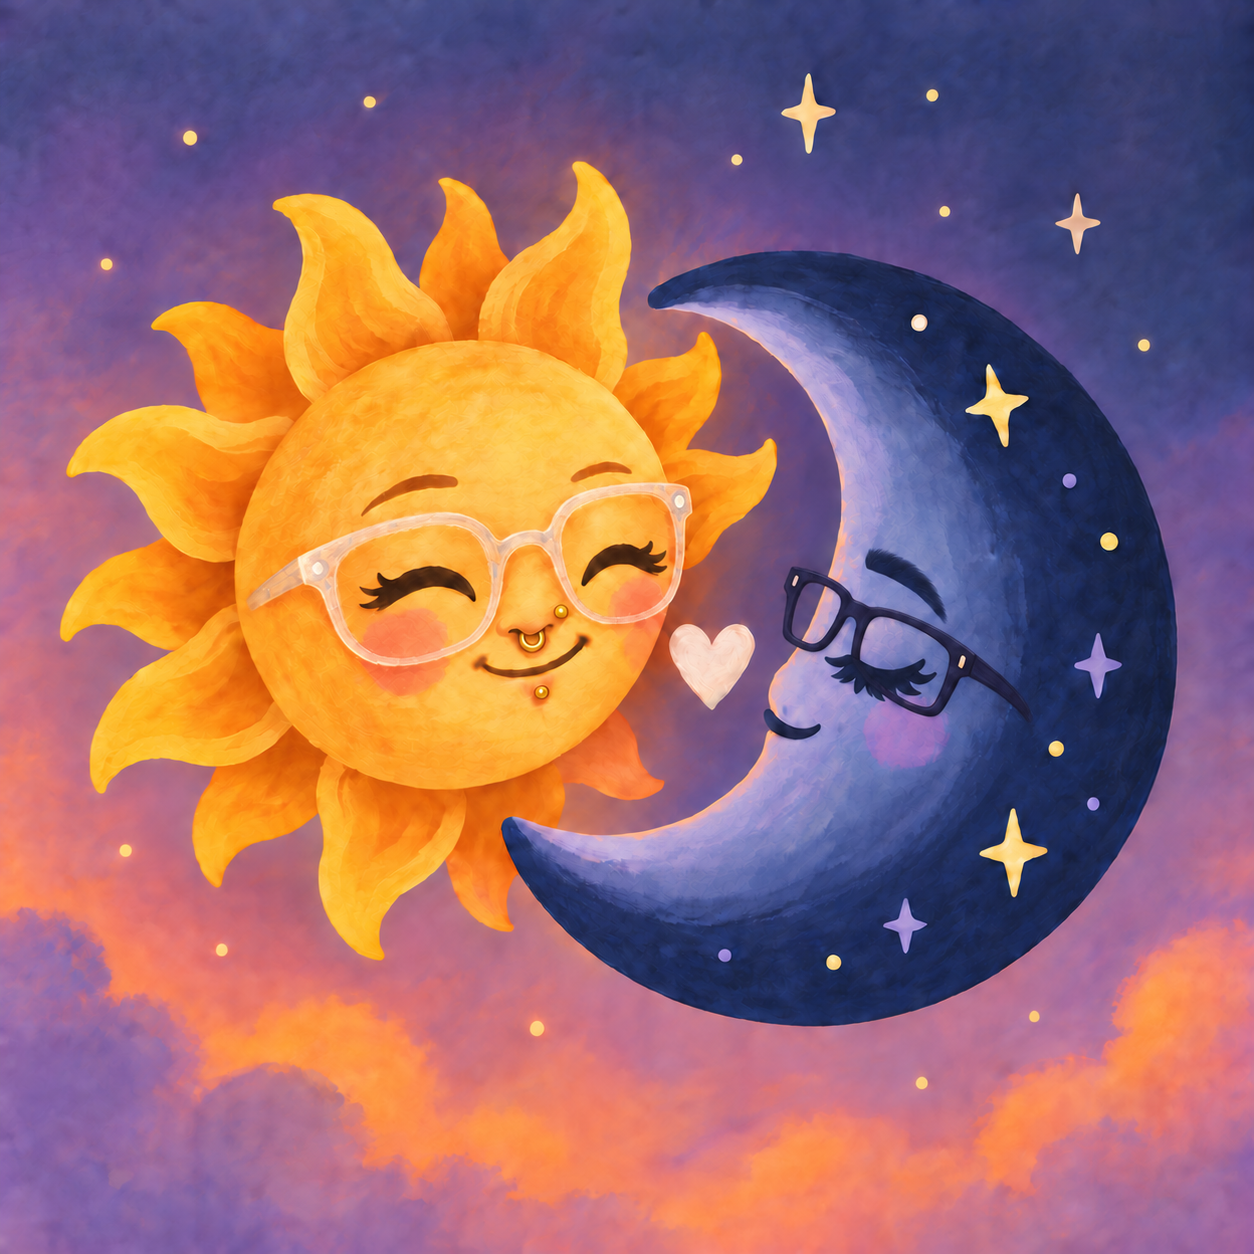
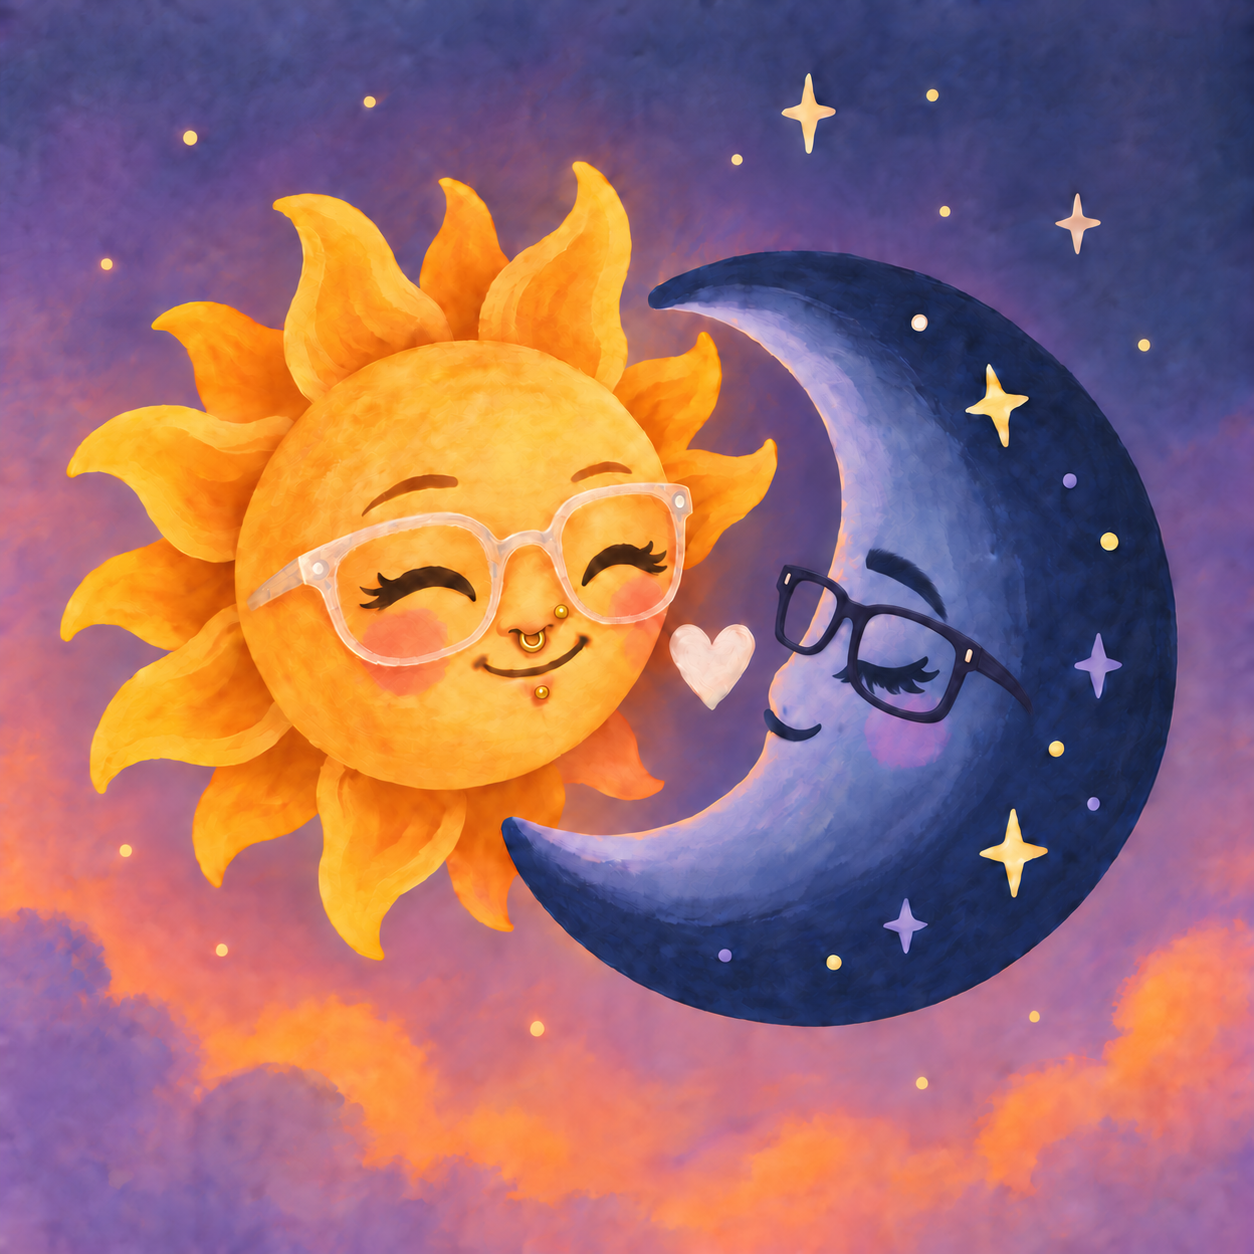
Add character portraits and polish the interface

Changed region(s): [[0.622, 0.4354, 0.8086, 0.5909], [0.622, 0.5598, 0.6531, 0.5909]]

diff --git a/styles.css b/styles.css
@@ -8,11 +8,13 @@
 }
 
 * { box-sizing: border-box; }
-html { min-height: 100%; }
-body { margin: 0; min-height: 100vh; color: var(--ink); }
+html { min-height: 100%; scroll-behavior:smooth; }
+body { margin: 0; min-height: 100vh; min-height:100dvh; color: var(--ink); overflow-wrap:anywhere; }
 a { color: inherit; }
-button, input, select { font: inherit; }
+button, input, select, textarea { font: inherit; }
 button, a { -webkit-tap-highlight-color: transparent; }
+button { touch-action:manipulation; }
+button:focus-visible,a:focus-visible,input:focus-visible,select:focus-visible,textarea:focus-visible { outline:3px solid color-mix(in srgb,var(--accent,#73506a) 55%,white); outline-offset:3px; }
 
 .landing {
   background:
@@ -25,7 +27,7 @@ button, a { -webkit-tap-highlight-color: transparent; }
   overflow-x: hidden;
 }
 
-.landing-shell { width: min(1080px, calc(100% - 32px)); padding: 64px 0 38px; position: relative; z-index: 2; }
+.landing-shell { width: min(1080px, calc(100% - 32px)); padding:max(42px,env(safe-area-inset-top)) 0 max(30px,env(safe-area-inset-bottom)); position: relative; z-index: 2; }
 .landing-copy { max-width: 700px; margin: 0 auto 38px; text-align: center; }
 .tiny-kicker { margin: 0 0 7px; font-size: .76rem; text-transform: uppercase; letter-spacing: .13em; font-weight: 850; opacity: .75; }
 .landing-copy h1 { margin: 0; font-size: clamp(2.7rem, 8vw, 5.7rem); line-height: .91; letter-spacing: -.065em; color: #523446; }
@@ -33,7 +35,7 @@ button, a { -webkit-tap-highlight-color: transparent; }
 
 .door-grid { display: grid; grid-template-columns: 1fr 1fr; gap: 22px; }
 .person-door {
-  min-height: 355px; padding: 34px; border-radius: 38px; text-decoration: none;
+  min-height: 355px; padding: 30px 34px 34px; border-radius: 38px; text-decoration: none;
   display: flex; flex-direction: column; justify-content: flex-end; position: relative; overflow: hidden;
   box-shadow: 0 22px 55px rgba(78,52,66,.15); transition: transform .22s ease, box-shadow .22s ease;
 }
@@ -42,7 +44,7 @@ button, a { -webkit-tap-highlight-color: transparent; }
 .her-door::before { content:"♡"; position:absolute; right:-10px; top:-85px; font-size:18rem; color:rgba(255,255,255,.24); transform:rotate(12deg); }
 .him-door { background: linear-gradient(145deg,#203d59,#12293f 68%,#0d2134); color:#eef7ff; }
 .him-door::before { content:"✦"; position:absolute; right:22px; top:-35px; font-size:15rem; color:rgba(156,209,215,.12); }
-.door-sparkle { position:absolute; top:30px; left:34px; font-size:2.2rem; }
+.door-sparkle { font-size:2.2rem; }
 .door-small { font-size:.75rem; text-transform:uppercase; letter-spacing:.13em; font-weight:850; opacity:.72; }
 .person-door strong { font-size:clamp(3.3rem,8vw,5.8rem); line-height:.9; letter-spacing:-.06em; margin:8px 0 16px; }
 .door-note { max-width:330px; line-height:1.45; opacity:.82; }
@@ -68,12 +70,12 @@ button, a { -webkit-tap-highlight-color: transparent; }
   --page-text:#213f52; --page-muted:#667f8d;
   background:radial-gradient(circle at 90% 0,#cde0e5 0,transparent 28rem),radial-gradient(circle at 0 45%,#e6efe7 0,transparent 25rem),#f8fbf8;
 }
-.app-topbar { max-width:880px; margin:0 auto; padding:24px 20px; display:flex; justify-content:space-between; gap:16px; }
+.app-topbar { max-width:920px; margin:0 auto 8px; padding:max(18px,env(safe-area-inset-top)) 20px 14px; display:flex; justify-content:space-between; gap:16px; align-items:center; position:sticky; top:0; z-index:15; background:linear-gradient(180deg,color-mix(in srgb,var(--paper) 88%,transparent),color-mix(in srgb,var(--paper) 64%,transparent) 76%,transparent); backdrop-filter:blur(14px); }
 .app-topbar a { font-size:.86rem; font-weight:800; text-decoration:none; color:var(--accent-deep); }
 .topbar-right { display:flex; gap:12px; align-items:center; }
-.sign-out { border:0; background:transparent; color:var(--page-muted); font-size:.77rem; font-weight:800; cursor:pointer; padding:0; }
+.sign-out { border:0; background:transparent; color:var(--page-muted); font-size:.77rem; font-weight:800; cursor:pointer; padding:8px 4px; }
 .app-shell { width:min(840px,calc(100% - 28px)); margin:0 auto; }
-.hello-card { display:flex; justify-content:space-between; align-items:center; gap:20px; background:var(--paper); border:1px solid rgba(255,255,255,.92); border-radius:34px; padding:34px; box-shadow:0 18px 50px rgba(82,56,68,.1); }
+.hello-card { display:flex; justify-content:space-between; align-items:center; gap:24px; background:var(--paper); border:1px solid rgba(255,255,255,.92); border-radius:34px; padding:34px; box-shadow:0 18px 50px rgba(82,56,68,.1); }
 .hello-card h1 { margin:0; font-size:clamp(2.7rem,8vw,4.7rem); line-height:.95; letter-spacing:-.055em; color:var(--page-text); }
 .hello-note { max-width:500px; margin:14px 0 0; color:var(--page-muted); line-height:1.5; }
 .mood-sticker { flex:0 0 auto; width:92px; height:92px; display:grid; place-items:center; font-size:2.7rem; border-radius:34px 28px 38px 25px; background:var(--accent-pale); box-shadow:0 10px 25px rgba(75,55,65,.1); transform:rotate(5deg); }
@@ -91,9 +93,11 @@ button, a { -webkit-tap-highlight-color: transparent; }
 .quick-form label,.grocery-composer label { display:block; }
 .quick-form label > span,.grocery-composer label > span { display:block; margin:0 0 7px 3px; font-size:.82rem; font-weight:800; color:var(--page-muted); }
 .wide-field { grid-column:1/-1; }
-input,select { width:100%; min-height:48px; border:2px solid color-mix(in srgb,var(--accent-soft) 70%,white); background:rgba(255,255,255,.82); color:var(--page-text); border-radius:15px; padding:11px 13px; outline:none; }
+input,select { width:100%; min-height:50px; border:2px solid color-mix(in srgb,var(--accent-soft) 70%,white); background:rgba(255,255,255,.82); color:var(--page-text); border-radius:15px; padding:11px 13px; outline:none; font-size:16px; }
 input:focus,select:focus { border-color:var(--accent); box-shadow:0 0 0 4px color-mix(in srgb,var(--accent) 14%,transparent); }
-.primary-action { grid-column:1/-1; min-height:50px; border:0; border-radius:999px; background:linear-gradient(135deg,var(--accent),var(--accent-deep)); color:white; font-weight:850; cursor:pointer; box-shadow:0 10px 24px color-mix(in srgb,var(--accent) 27%,transparent); }
+.primary-action { grid-column:1/-1; min-height:52px; border:0; border-radius:999px; background:linear-gradient(135deg,var(--accent),var(--accent-deep)); color:white; font-weight:850; cursor:pointer; box-shadow:0 10px 24px color-mix(in srgb,var(--accent) 27%,transparent); transition:transform .16s ease,filter .16s ease,box-shadow .16s ease; }
+.primary-action:hover { filter:saturate(1.06) brightness(1.03); transform:translateY(-1px); }
+.primary-action:active { transform:translateY(1px) scale(.995); }
 
 .count-bubble { background:var(--accent-pale); color:var(--accent-deep); padding:8px 12px; border-radius:999px; font-size:.78rem; font-weight:850; }
 .empty-state { text-align:center; padding:38px 15px 25px; color:var(--page-muted); }
@@ -133,7 +137,7 @@ input:focus,select:focus { border-color:var(--accent); box-shadow:0 0 0 4px colo
 .dashboard-shell { max-width:920px; }
 .dashboard-hello { margin-bottom:18px; }
 .tool-grid { display:grid; grid-template-columns:1fr 1fr; gap:16px; }
-.tool-card { min-height:255px; border-radius:30px; padding:25px; text-decoration:none; display:flex; flex-direction:column; align-items:flex-start; position:relative; overflow:hidden; box-shadow:0 14px 34px rgba(62,48,56,.1); transition:transform .18s ease,box-shadow .18s ease; }
+.tool-card { min-height:255px; border-radius:30px; padding:27px; text-decoration:none; display:flex; flex-direction:column; align-items:flex-start; position:relative; overflow:hidden; box-shadow:0 14px 34px rgba(62,48,56,.1); transition:transform .18s ease,box-shadow .18s ease; }
 .tool-card:hover { transform:translateY(-4px); box-shadow:0 21px 46px rgba(62,48,56,.14); }
 .tool-card:first-child { grid-row:span 2; min-height:526px; justify-content:flex-end; }
 .tool-card:first-child::after { content:'✓'; position:absolute; font-size:19rem; top:-75px; right:-15px; opacity:.08; font-weight:900; }
@@ -354,17 +358,73 @@ input:focus,select:focus { border-color:var(--accent); box-shadow:0 0 0 4px colo
 
 /* Their little sun & moon */
 .landing-pair { width:148px; aspect-ratio:1; object-fit:cover; border-radius:44px; box-shadow:0 18px 44px rgba(34,31,70,.22),0 0 0 4px rgba(255,255,255,.42); transform:rotate(-2deg); }
-.celestial-crop { position:relative; display:block; overflow:hidden; isolation:isolate; }
-.celestial-crop img { position:absolute; top:0; height:100%; width:200%; max-width:none; object-fit:cover; }
-.sun-crop img { left:0; object-position:left center; }
-.moon-crop img { right:0; object-position:right center; }
-.door-sparkle.celestial-crop { width:74px; height:74px; border-radius:24px; border:2px solid rgba(255,255,255,.65); box-shadow:0 9px 24px rgba(31,34,72,.18); }
-.mood-sticker.celestial-crop { padding:0; border:3px solid rgba(255,255,255,.62); }
-.proximity-orbit .celestial-crop { width:54px; height:54px; flex:0 0 54px; border-radius:19px; border:2px solid rgba(255,255,255,.72); box-shadow:0 8px 20px rgba(26,34,71,.18); }
-.couple-marker.her::after,.couple-marker.him::after { content:''; width:36px; height:36px; border-radius:13px; background-image:url('sun-moon-personalized.png'); background-repeat:no-repeat; background-size:200% 100%; }
-.couple-marker.her::after { background-position:left center; }
-.couple-marker.him::after { background-position:right center; }
-@media (max-width:620px) { .landing-pair { width:112px; border-radius:34px; } }
+.profile-mini,.profile-portrait,.profile-orbit { display:block; overflow:hidden; isolation:isolate; background:rgba(255,255,255,.38); }
+.profile-mini img,.profile-portrait img,.profile-orbit img { display:block; width:100%; height:100%; object-fit:cover; }
+.door-sparkle.profile-mini { position:relative; top:auto; left:auto; width:78px; height:78px; margin:0 0 auto; border-radius:25px; border:2px solid rgba(255,255,255,.72); box-shadow:0 10px 28px rgba(31,34,72,.2); transform:rotate(-3deg); transition:transform .22s ease; }
+.him-door .door-sparkle.profile-mini { transform:rotate(3deg); }
+.person-door:hover .profile-mini { transform:rotate(1deg) scale(1.04); }
+.him-door:hover .profile-mini { transform:rotate(-1deg) scale(1.04); }
+.mood-sticker.profile-portrait { padding:0; border:3px solid rgba(255,255,255,.68); }
+.profile-orbit { width:56px; height:56px; flex:0 0 56px; border-radius:19px; border:2px solid rgba(255,255,255,.76); box-shadow:0 8px 20px rgba(26,34,71,.18); }
+.couple-marker.her::after,.couple-marker.him::after { content:''; width:36px; height:36px; border-radius:13px; background-repeat:no-repeat; background-size:cover; background-position:center; }
+.couple-marker.her::after { background-image:url('sun-profile.png'); }
+.couple-marker.him::after { background-image:url('moon-profile.png'); }
+
+/* A calmer, friendlier finish across the whole little universe */
+.person-door,.tool-card,.composer-card,.list-card,.grocery-composer,.playful-maker,.note-maker,.note-preview,.proximity-card,.share-card,.map-card,.hello-card,.feature-hero { isolation:isolate; }
+.person-door > *,.tool-card > * { position:relative; z-index:1; }
+.tiny-button,.tab,.soft-chip,.choice,.duration-chip,.note-starters button,.inline-add button,.create-space,.stop-sharing,.hide-last-location,.install-corner button { min-height:44px; transition:transform .16s ease,filter .16s ease,background-color .16s ease; }
+.tiny-button:hover,.tab:hover,.soft-chip:hover,.choice:hover,.duration-chip:hover,.note-starters button:hover,.inline-add button:hover,.create-space:hover,.install-corner button:hover { filter:brightness(1.03) saturate(1.05); transform:translateY(-1px); }
+.tiny-button:active,.tab:active,.soft-chip:active,.choice:active,.duration-chip:active,.note-starters button:active,.inline-add button:active,.create-space:active,.install-corner button:active { transform:translateY(1px); }
+.tabs { scroll-snap-type:x proximity; mask-image:linear-gradient(90deg,transparent,#000 10px,#000 calc(100% - 18px),transparent); }
+.tab { scroll-snap-align:start; }
+.composer-card,.list-card,.grocery-composer,.playful-maker,.note-maker,.note-preview,.proximity-card,.share-card,.map-card { border:1px solid color-mix(in srgb,var(--accent-soft) 24%,rgba(255,255,255,.88)); }
+.task-row { transition:transform .16s ease,background-color .16s ease; }
+.task-row:hover { transform:translateX(2px); }
+.task-check,.delete-task { min-width:32px; min-height:32px; }
+.delete-task { border-radius:50%; }
+.delete-task:hover { background:color-mix(in srgb,var(--accent-pale) 74%,white); }
+.phone-popup { min-width:0; }
+.phone-popup div { min-width:0; }
+.phone-popup p { white-space:normal; }
+.map-heading,.share-heading,.composer-heading,.list-heading { min-width:0; }
+
+@media (max-width:720px) {
+  .landing-shell { width:min(100% - 24px,680px); padding-top:max(26px,env(safe-area-inset-top)); }
+  .landing-copy { margin-bottom:26px; }
+  .landing-copy h1 { font-size:clamp(2.6rem,13vw,4.2rem); }
+  .landing-copy>p:last-child { margin-top:15px; font-size:.98rem; }
+  .landing-pair { width:112px; border-radius:34px; }
+  .door-grid { gap:15px; }
+  .person-door { min-height:300px; padding:24px 25px 27px; border-radius:30px; }
+  .door-sparkle.profile-mini { width:68px; height:68px; border-radius:22px; }
+  .person-door strong { font-size:clamp(3.2rem,16vw,4.9rem); margin-bottom:13px; }
+  .door-note { max-width:290px; font-size:.94rem; }
+  .door-arrow { margin-top:17px; }
+  .app-shell { width:min(100% - 20px,840px); }
+  .app-topbar { padding-left:14px; padding-right:14px; }
+  .hello-card { border-radius:27px; }
+  .feature-hero { border-radius:27px; }
+  .composer-card,.list-card,.grocery-composer,.playful-maker,.note-maker,.note-preview,.proximity-card,.share-card,.map-card { border-radius:25px; }
+  .tabs { margin-left:-2px; margin-right:-2px; padding-bottom:15px; }
+  .tool-grid { gap:13px; }
+  .tool-card,.tool-card:first-child { padding:24px; border-radius:26px; }
+}
+
+@media (max-width:450px) {
+  .tiny-kicker { font-size:.7rem; }
+  .hello-card { gap:14px; }
+  .hello-card h1 { font-size:clamp(2.3rem,13vw,3.5rem); }
+  .hello-note { font-size:.92rem; }
+  .mood-sticker.profile-portrait { width:64px; height:64px; flex-basis:64px; }
+  .feature-icon { width:70px; height:70px; border-radius:24px; }
+  .feature-hero h1 { font-size:clamp(2.35rem,12vw,3.5rem); }
+  .feature-hero>p:last-child { font-size:.93rem; }
+  .maker-step { grid-template-columns:34px 1fr; gap:10px; }
+  .soft-chip,.choice,.duration-chip,.note-starters button { padding:10px 12px; }
+  .share-heading h2,.map-heading h2 { font-size:1.45rem; }
+  .map-legend { gap:12px; flex-wrap:wrap; }
+}
 
 @media (max-width:720px) {
   .landing { background:linear-gradient(165deg,#fff8da 0%,#f7c966 38%,#9b728f 64%,#18264c 100%); }

diff --git a/service-worker.js b/service-worker.js
@@ -1,5 +1,5 @@
-const CACHE = 'our-little-list-personalized-v7';
-const ASSETS = ['./','./index.html','./her.html','./him.html','./tasks.html','./reminders.html','./notes.html','./location.html','./styles.css','./shared.js','./tasks.js','./reminders.js','./notes.js','./location.js','./live-notes.js','./ui-helpers.js','./firebase-data.js','./firebase-config.js','./sun-moon-personalized.png','./manifest.webmanifest'];
+const CACHE = 'our-little-list-ui-v8';
+const ASSETS = ['./','./index.html','./her.html','./him.html','./tasks.html','./reminders.html','./notes.html','./location.html','./styles.css','./shared.js','./tasks.js','./reminders.js','./notes.js','./location.js','./live-notes.js','./ui-helpers.js','./firebase-data.js','./firebase-config.js','./sun-moon-personalized.png','./sun-profile.png','./moon-profile.png','./manifest.webmanifest'];
 
 self.addEventListener('install', event => event.waitUntil(caches.open(CACHE).then(cache => cache.addAll(ASSETS))));
 self.addEventListener('activate', event => event.waitUntil(caches.keys().then(keys => Promise.all(keys.filter(key => key !== CACHE).map(key => caches.delete(key))))));

diff --git a/index.html b/index.html
@@ -27,7 +27,7 @@
 
     <section class="door-grid" aria-label="Choose a page">
       <a class="person-door her-door" href="her.html">
-        <span class="door-sparkle celestial-crop sun-crop"><img src="sun-moon-personalized.png" alt=""></span>
+        <span class="door-sparkle profile-mini"><img src="sun-profile.png" alt=""></span>
         <span class="door-small">her warm little corner</span>
         <strong>For Her</strong>
         <span class="door-note">the sunshine side — soft reminders, sweet notes & little wins</span>
@@ -35,7 +35,7 @@
       </a>
 
       <a class="person-door him-door" href="him.html">
-        <span class="door-sparkle celestial-crop moon-crop"><img src="sun-moon-personalized.png" alt=""></span>
+        <span class="door-sparkle profile-mini"><img src="moon-profile.png" alt=""></span>
         <span class="door-small">his quiet little corner</span>
         <strong>For Him</strong>
         <span class="door-note">the moon side — plans, helpful nudges & things to remember</span>

diff --git a/location.html b/location.html
@@ -15,7 +15,7 @@
     </section>
 
     <section class="proximity-card" aria-live="polite">
-      <div class="proximity-orbit" aria-hidden="true"><span class="celestial-crop sun-crop"><img src="sun-moon-personalized.png" alt=""></span><i></i><span class="celestial-crop moon-crop"><img src="sun-moon-personalized.png" alt=""></span></div>
+      <div class="proximity-orbit" aria-hidden="true"><span class="profile-orbit"><img src="sun-profile.png" alt=""></span><i></i><span class="profile-orbit"><img src="moon-profile.png" alt=""></span></div>
       <p class="tiny-kicker" id="distance-label">our little distance</p>
       <h2 id="proximity-message">Waiting for both of you</h2>
       <p id="proximity-detail">Share your spot, then your person can join you here.</p>

diff --git a/her.html b/her.html
@@ -12,7 +12,7 @@
   <main class="app-shell dashboard-shell">
     <section class="hello-card dashboard-hello">
       <div><p class="tiny-kicker">the sunshine side of our sky</p><h1>Hi, sunshine ☀</h1><p class="hello-note">A warm little place for the things you want to remember—and the person who wants to help you hold them.</p></div>
-      <div class="mood-sticker celestial-crop sun-crop"><img src="sun-moon-personalized.png" alt="The sunshine half of us"></div>
+      <div class="mood-sticker profile-portrait"><img src="sun-profile.png" alt="The sunshine half of us"></div>
     </section>
 
     <section class="tool-grid">

diff --git a/him.html b/him.html
@@ -12,7 +12,7 @@
   <main class="app-shell dashboard-shell">
     <section class="hello-card dashboard-hello">
       <div><p class="tiny-kicker">the moon side of our sky</p><h1>Hey, moon 🌙</h1><p class="hello-note">A quiet place for plans, helpful nudges, and all the little ways you orbit back to each other.</p></div>
-      <div class="mood-sticker celestial-crop moon-crop"><img src="sun-moon-personalized.png" alt="The moon half of us"></div>
+      <div class="mood-sticker profile-portrait"><img src="moon-profile.png" alt="The moon half of us"></div>
     </section>
 
     <section class="tool-grid">
